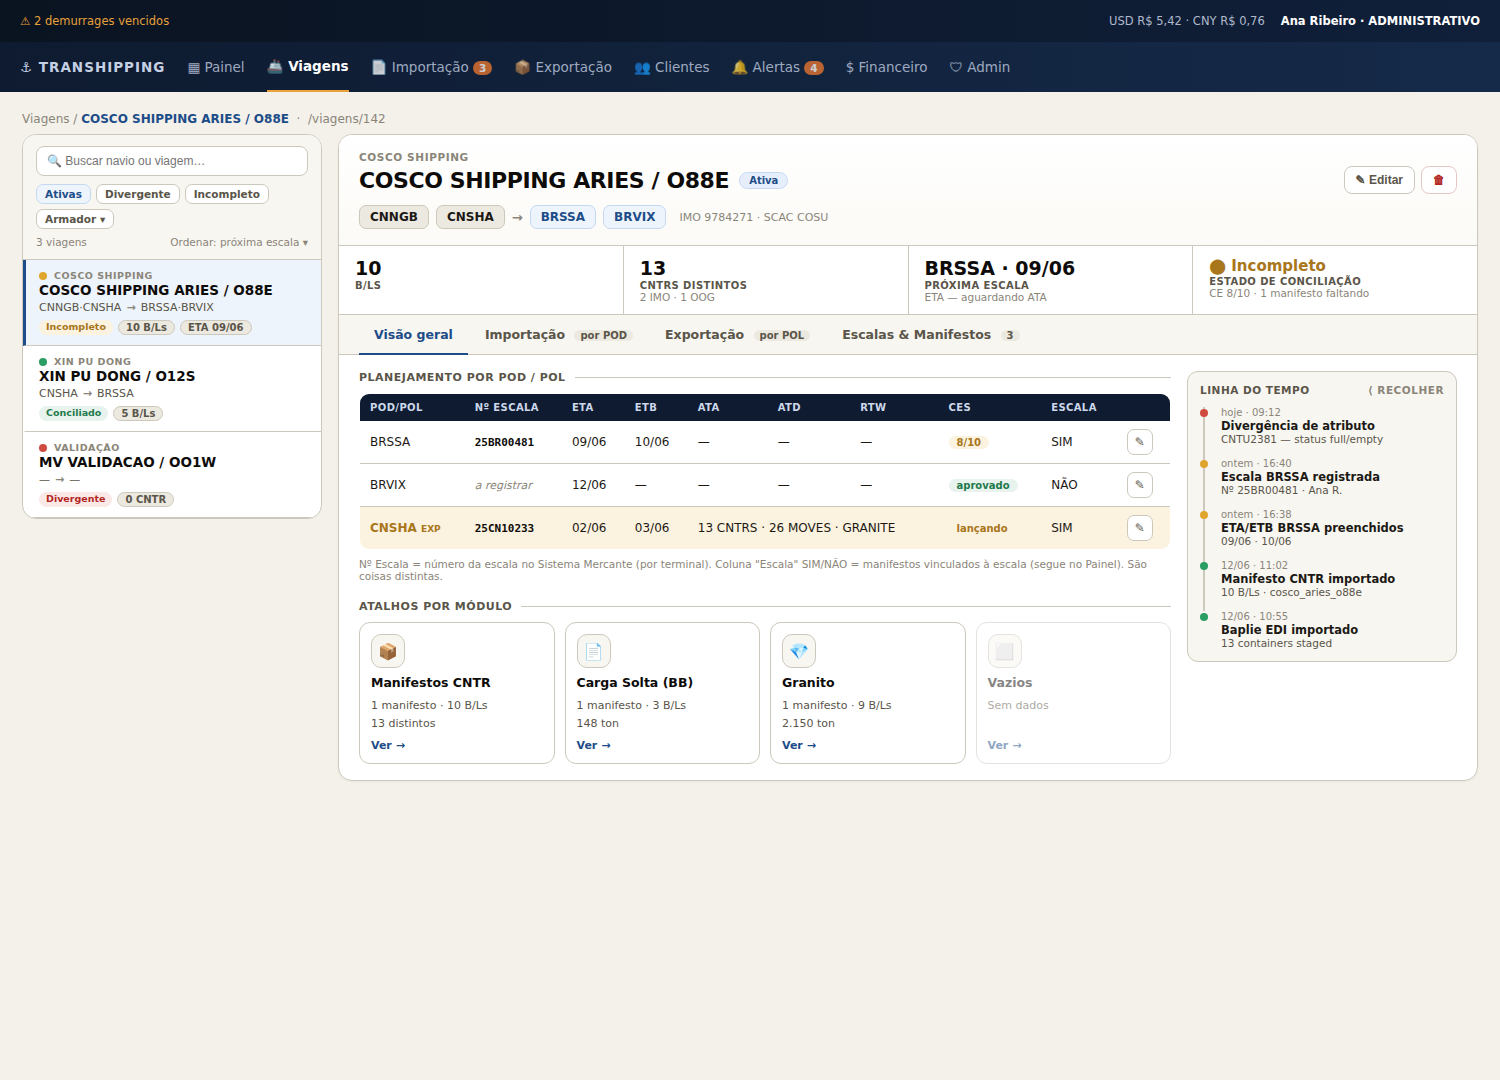
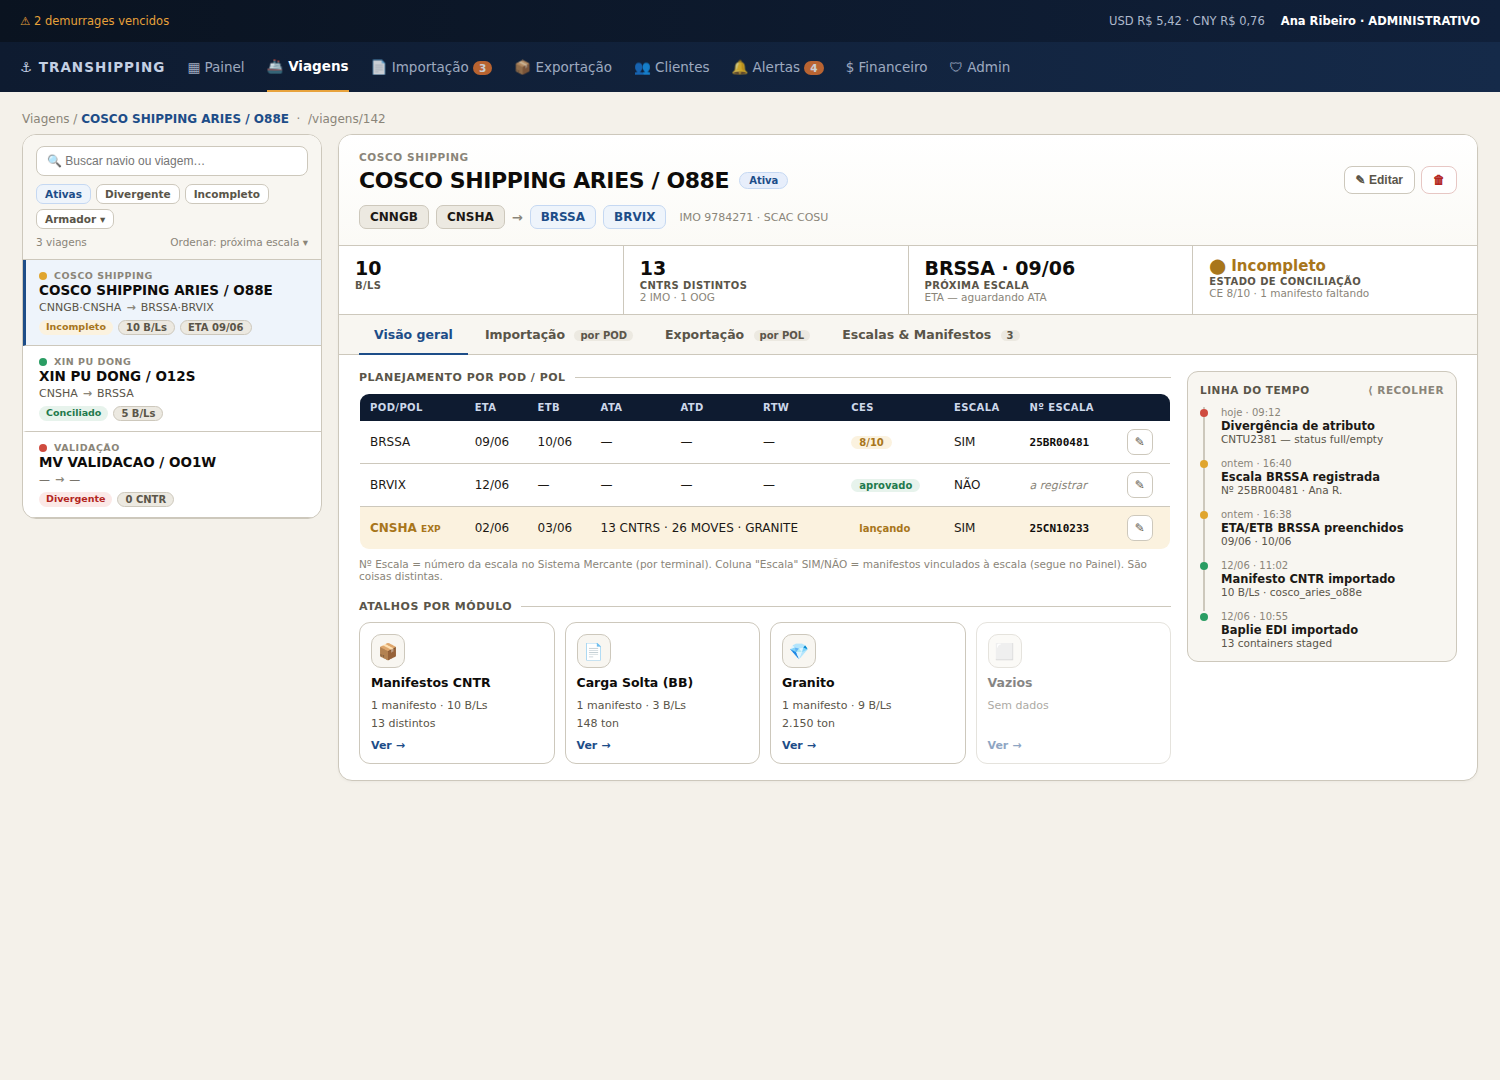
docs(viagens): plano de implementação do redesenho + refino dos mockups
- docs/plans/0001: plano técnico em 6 fases (migração CE Master, Nº Escala
  via snapshot event-sourced, rota /viagens/:id, abas, timeline)
- mockups: Nº Escala movida para o fim da tabela POD/POL; Importação por POD
  sem quebra explícita Carga Geral/Veículos e sem menção a porto de veículos

diff --git a/.mockups/viagens-final.html b/.mockups/viagens-final.html
@@ -209,11 +209,11 @@
             <div>
               <div class="sectitle">Planejamento por POD / POL</div>
               <table>
-                <thead><tr><th>POD/POL</th><th>Nº Escala</th><th>ETA</th><th>ETB</th><th>ATA</th><th>ATD</th><th>RTW</th><th>CEs</th><th>Escala</th><th></th></tr></thead>
+                <thead><tr><th>POD/POL</th><th>ETA</th><th>ETB</th><th>ATA</th><th>ATD</th><th>RTW</th><th>CEs</th><th>Escala</th><th>Nº Escala</th><th></th></tr></thead>
                 <tbody>
-                  <tr><td class="strong">BRSSA</td><td><span class="escala-num">25BR00481</span></td><td>09/06</td><td>10/06</td><td>—</td><td>—</td><td>—</td><td><span class="b-warn">8/10</span></td><td>SIM</td><td><span class="iconbtn">✎</span></td></tr>
-                  <tr><td class="strong">BRVIX</td><td><span class="escala-empty">a registrar</span></td><td>12/06</td><td>—</td><td>—</td><td>—</td><td>—</td><td><span class="b-ok">aprovado</span></td><td>NÃO</td><td><span class="iconbtn">✎</span></td></tr>
-                  <tr class="exp-row"><td>CNSHA <span style="font-size:9px">EXP</span></td><td><span class="escala-num">25CN10233</span></td><td>02/06</td><td>03/06</td><td colspan="3">13 CNTRS · 26 MOVES · GRANITE</td><td><span class="b-warn">lançando</span></td><td>SIM</td><td><span class="iconbtn">✎</span></td></tr>
+                  <tr><td class="strong">BRSSA</td><td>09/06</td><td>10/06</td><td>—</td><td>—</td><td>—</td><td><span class="b-warn">8/10</span></td><td>SIM</td><td><span class="escala-num">25BR00481</span></td><td><span class="iconbtn">✎</span></td></tr>
+                  <tr><td class="strong">BRVIX</td><td>12/06</td><td>—</td><td>—</td><td>—</td><td>—</td><td><span class="b-ok">aprovado</span></td><td>NÃO</td><td><span class="escala-empty">a registrar</span></td><td><span class="iconbtn">✎</span></td></tr>
+                  <tr class="exp-row"><td>CNSHA <span style="font-size:9px">EXP</span></td><td>02/06</td><td>03/06</td><td colspan="3">13 CNTRS · 26 MOVES · GRANITE</td><td><span class="b-warn">lançando</span></td><td>SIM</td><td><span class="escala-num">25CN10233</span></td><td><span class="iconbtn">✎</span></td></tr>
                 </tbody>
               </table>
               <div class="legend">Nº Escala = número da escala no Sistema Mercante (por terminal). Coluna "Escala" SIM/NÃO = manifestos vinculados à escala (segue no Painel). São coisas distintas.</div>
@@ -244,13 +244,11 @@
           <div class="podblock">
             <div class="h"><span class="pn">BRSSA</span><span class="pt">Salvador</span><span class="tot"><span>CNTRs <b>8</b></span><span>BB <b>2 B/Ls</b></span><span>Vazios <b>0</b></span></span></div>
             <div class="panels">
-              <div class="mpanel"><h3>Containers <span class="sub">(carga geral + veíc.)</span></h3>
+              <div class="mpanel"><h3>Containers</h3>
                 <div class="info"><span class="l">CNTRs distintos</span><span class="v">8</span></div>
                 <div class="info"><span class="l">IMO</span><span class="v">2</span></div>
                 <div class="info"><span class="l">OOG</span><span class="v">1</span></div>
                 <div class="info"><span class="l">Tipos</span><span class="v"><span class="tok">40HC×5</span><span class="tok">20DV×3</span></span></div>
-                <div class="info"><span class="l">↳ Carga Geral</span><span class="v">8</span></div>
-                <div class="info"><span class="l">↳ Veículos</span><span class="v na">—</span></div>
               </div>
               <div class="mpanel"><h3>Carga Solta (BB)</h3>
                 <div class="info"><span class="l">B/Ls</span><span class="v">2</span></div>
@@ -268,16 +266,14 @@
           </div>
 
           <div class="podblock">
-            <div class="h"><span class="pn">BRVIX</span><span class="pt">Vitória · único porto de veículos</span><span class="tot"><span>CNTRs <b>5</b></span><span>BB <b>1 B/L</b></span><span>Veíc. <b>42</b></span></span></div>
+            <div class="h"><span class="pn">BRVIX</span><span class="pt">Vitória</span><span class="tot"><span>CNTRs <b>5</b></span><span>BB <b>1 B/L</b></span><span>Veíc. <b>42</b></span></span></div>
             <div class="panels">
-              <div class="mpanel"><h3>Containers <span class="sub">(carga geral + veíc.)</span></h3>
+              <div class="mpanel"><h3>Containers</h3>
                 <div class="info"><span class="l">CNTRs distintos</span><span class="v">5</span></div>
                 <div class="info"><span class="l">IMO</span><span class="v">0</span></div>
                 <div class="info"><span class="l">Tipos</span><span class="v"><span class="tok">40HC×3</span><span class="tok">20DV×2</span></span></div>
-                <div class="info"><span class="l">↳ Carga Geral</span><span class="v">2</span></div>
-                <div class="info"><span class="l">↳ Veículos (6 cntr)</span><span class="v">3</span></div>
               </div>
-              <div class="mpanel"><h3>Veículos <span class="sub">(só Vitória)</span></h3>
+              <div class="mpanel"><h3>Veículos</h3>
                 <div class="info"><span class="l">Veículos vinculados</span><span class="v">42</span></div>
                 <div class="info"><span class="l">Containers c/ veíc.</span><span class="v">3</span></div>
                 <div class="info"><span class="l">Marcas</span><span class="v"><span class="tok">BYD</span><span class="tok">CHERY</span></span></div>

diff --git a/docs/plans/0001-viagens-redesign-implementacao.md b/docs/plans/0001-viagens-redesign-implementacao.md
@@ -1,0 +1,132 @@
+# Plano de implementação — Redesenho da página Viagens (master-detail)
+
+Base de decisão: ADR `docs/adr/0012-viagens-master-detail-rota-dedicada.md` e termos em `CONTEXT.md`.
+Mockup de referência: `.mockups/viagens-final.html`.
+
+Status: proposto — aguardando aprovação antes de codar.
+
+---
+
+## Objetivo
+
+Transformar a página Viagens de lista-de-cards expansíveis em **master-detail com rota dedicada `/viagens/:id`**, reorganizar o detalhe em 4 abas, segmentar Importação por POD e Exportação por POL, e adicionar os dados de Mercante (Número de Escala, CE Master), o Estado de Conciliação e a linha do tempo.
+
+Critério de sucesso global: a página atual continua funcionando durante a transição; nenhum dado existente é perdido; cada fase tem verificação própria e os testes passam antes e depois.
+
+---
+
+## Fase 0 — Descoberta pontual (sem código)
+
+Confirmar a fonte das divergências de conciliação (Baplie ↔ Manifesto) e da cobertura de CE, que alimentam o **Estado de Conciliação**.
+
+- [ ] Localizar onde divergências de Existência/Atributo são detectadas/persistidas (provável módulo de Revisão/Conciliação — ver ADR 0005/0006). → verify: identificar tabela/consulta que retorna divergências em aberto por viagem.
+- [ ] Confirmar de onde sai "manifesto faltando" e "CE incompleto" (provável `bls.ce_mercante` + contagem de batches vs rotas). → verify: query que dá `ce_filled/ce_total` por viagem.
+
+Saída: definição executável da função `deriveEstadoConciliacao(voyage)` → `'divergente' | 'incompleto' | 'conciliado'`.
+
+---
+
+## Fase 1 — Migração de dados (Supabase)
+
+Seguir o playbook `supabase-migration` (RLS-first, list_tables antes, nota de rollback).
+
+1. **CE Master por manifesto** — nova coluna.
+   - `ALTER TABLE public.import_batches ADD COLUMN IF NOT EXISTS ce_master TEXT;`
+   - Sem default, nullable (preenchido inline depois).
+   - RLS: garantir que o update da coluna é permitido a operador (mesma policy de edição operacional já usada). Se hoje `import_batches` não tem policy de UPDATE para operador, expor via RPC `set_import_batch_ce_master(batch_id, ce_master)` SECURITY DEFINER (padrão ADR 0004).
+   - verify: migration aplica e reverte limpa; coluna aparece em `list_tables`.
+
+2. **Número de Escala** — **sem migração de schema**.
+   - Reaproveita o padrão event-sourced: novo `field_name = 'escala_number'` nos eventos `voyage_pod_schedule` / `voyage_pol_schedule` em `audit_logs`. O trigger `trg_voyage_schedule_snapshot` (migration 046) já grava qualquer `field_name` no JSONB `pod_schedule_snapshot`/`pol_schedule_snapshot`.
+   - verify: inserir evento `escala_number` e ver o snapshot atualizado.
+
+> Decisão de simplicidade: não criar tabela nova para escala. O número vive no mesmo snapshot por POD/POL, como os demais campos da escala.
+
+---
+
+## Fase 2 — Serviços e hooks (camada de dados)
+
+Seguir `react-query-pattern` (service-function + use*-hook, chaves e invalidação centralizadas).
+
+1. `src/services/voyageRouteSchedules.ts`
+   - Estender `VoyagePodSchedule`/`VoyagePolSchedule` com `escalaNumber: string | null`.
+   - Incluir `escala_number` na leitura (reconstrução por `field_name`) e na escrita (`saveVoyagePodSchedule`/`saveVoyagePolSchedule`).
+   - verify: teste unitário de round-trip do `escala_number`.
+
+2. `src/services/imports` (ou onde batches são lidos/editados)
+   - `setImportBatchCeMaster(batchId, ceMaster)` chamando o RPC/coluna.
+   - Incluir `ce_master` no select de `useVoyages` (`src/hooks/useBls.ts` ~L327).
+   - verify: editar CE Master e ver persistir + invalidar `['voyages']`.
+
+3. `src/pages/viagensHelpers.ts`
+   - `deriveEstadoConciliacao(voyage)` (Fase 0).
+   - `getProximaEscala(voyage, podSchedules)` → `{ pod, eta }` da próxima escala futura sem ATA.
+   - `summarizeImportByPod(voyage, vehicleStats)` → métricas por POD (containers, carga geral, veículos, carga solta, vazios) + total.
+   - `summarizeExportByPol(voyage)` → granito/vazios por terminal de embarque.
+   - verify: cobrir com testes em `src/pages/__tests__/viagensHelpers.test.ts` (já existe).
+
+---
+
+## Fase 3 — Roteamento e shell master-detail
+
+1. `src/App.tsx`: adicionar `<Route path="/viagens/:id" element={withSuspense(<Viagens />)} />` mantendo `/viagens`. A própria `Viagens` lê `:id` e decide o detalhe selecionado.
+2. `src/pages/Viagens.tsx`: layout em grid `rail | detalhe`.
+   - **Rail** (novo componente `VoyageRail`): busca, filtros (status, Estado de Conciliação, armador/porto), ordenação por próxima escala; item com bolinha de Estado de Conciliação. Clique navega para `/viagens/:id`.
+   - Sem `:id` → estado vazio "Selecione uma viagem" no painel.
+   - Responsivo: < lg, rail vira lista de tela cheia; `/viagens/:id` ocupa a viewport.
+   - verify: navegar, filtrar, deep-link `/viagens/:id` direto pela URL.
+
+---
+
+## Fase 4 — Detalhe da viagem em abas
+
+Refatorar `src/components/voyages/VoyageCard.tsx` → `VoyageDetail` com cabeçalho + faixa de KPIs + abas. Reusar `MetricPanel`/`Info`/`NavigationCard` de `VoyageSectionCards.tsx`.
+
+1. **Cabeçalho + KPIs**: B/Ls · CNTRs distintos · Próxima escala (POD+ETA) · Estado de conciliação (com o porquê: `CE x/y`, `n manifesto faltando`).
+2. **Aba Visão geral**: tabela Planejamento POD/POL com **coluna "Nº Escala" ao final** (antes das ações), mantendo a coluna "Escala" SIM/NÃO (= vínculo de manifestos). Edição do Nº Escala no modal do POD/POL. + cards de atalho de módulo. + **timeline lateral recolhível**.
+3. **Aba Importação**: uma seção por POD (sem quebra explícita Carga Geral/Veículos; sem rótulo "só Vitória") + bloco Total da viagem + importação rápida.
+4. **Aba Exportação**: uma seção por terminal de embarque (POL/origem) + exportação rápida.
+5. **Aba Escalas & Manifestos**: por manifesto — rota, ETD, B/Ls, status conciliação + nº divergências, ação resolver/abrir, chip Baplie + tipo de carga, cobertura CE Mercante (x/y), **CE Master editável**.
+   - verify: cada aba renderiza com dados reais; edições persistem e invalidam cache.
+
+---
+
+## Fase 5 — Modais e edição inline
+
+- `VoyageScheduleModals.tsx`: adicionar campo **Nº Escala** ao modal de POD e ao de POL.
+- Edição de **CE Master** inline na aba Manifestos (input + save por linha).
+- Permissões: operador edita Nº Escala, CE Master, datas, ETD; admin para criar/excluir/estrutura (mantém o padrão atual).
+- verify: como operador (não-admin), editar Nº Escala e CE Master funciona; excluir viagem/POD continua admin.
+
+---
+
+## Fase 6 — Linha do tempo
+
+- `buildVoyageTimeline(voyage, schedulesAudit, batches)` agregando:
+  - imports (`import_batches.uploaded_at`),
+  - datas de escala (eventos `audit_logs` de `voyage_*_schedule`),
+  - marcos de conciliação / escala Mercante (divergência detectada/resolvida, Nº Escala registrado, manifestos vinculados).
+- Sem eventos financeiros.
+- verify: timeline ordenada desc com os três tipos de evento.
+
+---
+
+## Fora de escopo (não fazer agora)
+
+- Modal de Nova Viagem segue enxuto (Mercante preenchido inline depois).
+- Financeiro no topo/timeline.
+- Deep-links de Painel/Alertas/Financeiro para `/viagens/:id` (habilitado pela rota, mas implementado em tarefa própria).
+- Polimento fino de mobile (desktop-first; mobile só não quebrar).
+
+## Riscos / pontos de atenção
+
+- **Estado de Conciliação** depende da fonte de divergências (Fase 0) — se inexistente, começar por "Incompleto/Conciliado" (CE + manifesto faltando) e adicionar "Divergente" quando a fonte estiver mapeada.
+- Tabela POD/POL passa a ~10 colunas — validar legibilidade em 1440px.
+- Regressão: a página atual é densa e operacional; manter testes de `viagensHelpers` verdes e adicionar testes para as novas funções derivadas.
+
+## Ordem sugerida de PRs
+
+1. Fase 1 (migração CE Master) + Fase 2 (serviços/hooks) — base de dados.
+2. Fase 3 (rota + rail) — esqueleto navegável.
+3. Fase 4 (detalhe em abas) — corpo.
+4. Fases 5 e 6 (edição inline + timeline) — acabamento.
